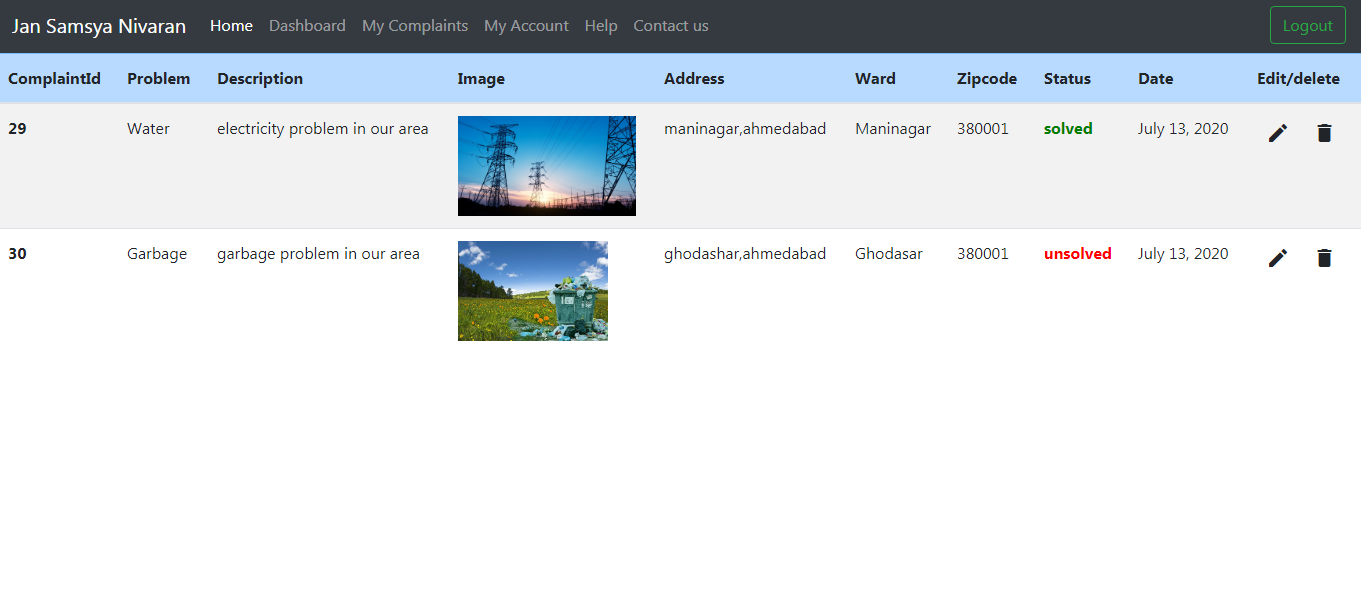
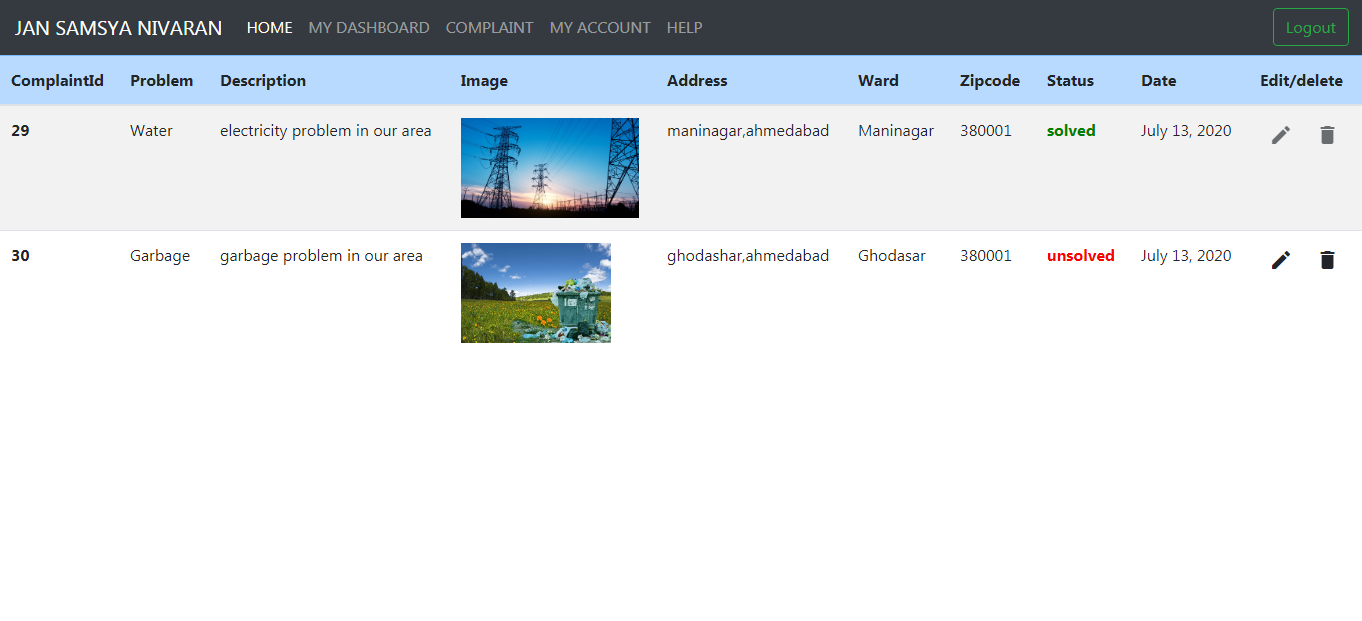
done

diff --git a/jsn/user/templates/complaint.html b/jsn/user/templates/complaint.html
@@ -14,10 +14,61 @@
 
 
     <title>complaint</title>
+    <script> 
+    function upload_check()
+        {
+            var upl = document.getElementById("file_id");
+            var imgsize = document.getElementById("imagesize");
+            
+            
+            if(Math.round(upl.files[0].size)/1024 > 1000 )
+            {
+            imgsize.style.display=""; 
+            upl.value = "";
+            }
+            else
+            {
+
+                imgsize.style.display="none"; 
+            }
+        };
+     
+</script> 
 </head>
 
 <body>
+<nav class="navbar  navbar-expand-lg navbar-dark bg-dark" >
+  <a class="navbar-brand" href="/home">JAN SAMSYA NIVARAN</a>
+  <button class="navbar-toggler" type="button" data-toggle="collapse" data-target="#navbarSupportedContent" aria-controls="navbarSupportedContent" aria-expanded="false" aria-label="Toggle navigation">
+    <span class="navbar-toggler-icon"></span>
+  </button>
 
+  <div class="collapse navbar-collapse" id="navbarSupportedContent">
+    <ul class="navbar-nav mr-auto">
+      <li class="nav-item active">
+        <a class="nav-link" href="userhome">HOME</a>
+        
+      </li>
+      
+      <li class="nav-item active">
+        <a class="nav-link" href="mydashbord">MY DASHBORD</a>
+        
+      </li>
+      <li class="nav-item active">
+        <a class="nav-link" href="complaint">COMPLAINT</a>
+      </li>
+      <li class="nav-item dropdown">
+        <a class="nav-link" href="myaccount">MY ACCOUNT</a>
+      </li>
+      <li class="nav-item">
+        <a class="nav-link" href="help">HELP</a>
+      </li>
+          </ul>
+    <a href="/user/logout"><button class="btn btn-outline-success mr-2 my-2 my-sm-0" type="submit">Logout</button></a>
+   
+    
+  </div>
+</nav>
 
     <div class="container">
         <div class="row">
@@ -49,7 +100,9 @@
                             </div>
                             <div class="form-group">
                                 <label class="form`-control-label">Image</label>
-                                <input type="file" accept="image/*" name="image" class="form-control" required>
+                                <input type="file" accept="image/*" name="image" onchange="upload_check()" id="file_id"  id="image"class="form-control" required>
+                                <span style='display:none;color:red' id="imagesize"><small>Image size should be <2 MB
+                                        </small></span>
 
                             </div>
                             <div class="form-group">

diff --git a/jsn/user/templates/help.html b/jsn/user/templates/help.html
@@ -13,7 +13,7 @@
   </head>
   <body>
    <nav class="navbar  navbar-expand-lg navbar-dark bg-dark" >
-  <a class="navbar-brand" href="/home">Jan Samsya Nivaran</a>
+  <a class="navbar-brand" href="/home">JAN SAMSYA NIVARAN</a>
   <button class="navbar-toggler" type="button" data-toggle="collapse" data-target="#navbarSupportedContent" aria-controls="navbarSupportedContent" aria-expanded="false" aria-label="Toggle navigation">
     <span class="navbar-toggler-icon"></span>
   </button>
@@ -21,7 +21,7 @@
   <div class="collapse navbar-collapse" id="navbarSupportedContent">
     <ul class="navbar-nav mr-auto">
       <li class="nav-item active">
-        <a class="nav-link" href="/home">HOME</a>
+        <a class="nav-link" href="userhome">HOME</a>
         
       </li>
       
@@ -50,11 +50,11 @@
     <div>
         <center><h1>Welcome page</h1>
         <img src="{% static 'home.png' %}" class="img-thumbnail" height="5%" width="70%"></center><hr>
-       <center> <h1>To See Your Complaint Click on Dashboard </h1>
+       <center> <h1>To See Your Complaint Click on My Dashboard </h1>
         <img src="{% static 'Dashboard.png' %}"  class="img-thumbnail" height="5%" width="70%"></center><hr>
-       <center> <h1>For any Complaint Click on My Complaint</h1>
+       <center> <h1>For any Complaint Click on Complaint</h1>
         <img src="{% static 'complaint.png' %}" class="img-thumbnail" height="5%" width="70%"></center><hr>
-        <center><h1>To see Your Account </h1>
+        <center><h1>To see Your Account click on My account </h1>
         <img src="{% static 'myaccount.png' %}" class="img-thumbnail" height="5%" width="70%"></center>
     </div>
 

diff --git a/jsn/home/templates/home.html b/jsn/home/templates/home.html
@@ -17,7 +17,7 @@
 	
 		
     <nav class="navbar fixed-top navbar-expand-lg navbar-dark bg-dark" >
-  <a class="navbar-brand" href="">Jan Samsya Nivaran</a>
+  <a class="navbar-brand" href="">JAN SAMASYA NIVARAN</a>
   <button class="navbar-toggler" type="button" data-toggle="collapse" data-target="#navbarSupportedContent" aria-controls="navbarSupportedContent" aria-expanded="false" aria-label="Toggle navigation">
     <span class="navbar-toggler-icon"></span>
   </button>
@@ -25,18 +25,18 @@
   <div class="collapse navbar-collapse" id="navbarSupportedContent">
     <ul class="navbar-nav mr-auto">
       <li class="nav-item active">
-        <a class="nav-link" href="">Home <span class="sr-only">(current)</span></a>
+        <a class="nav-link" href="">HOME <span class="sr-only">(current)</span></a>
       </li>
       <li class="nav-item active">
         <a class="nav-link" href="dashbord">DASHBORD</a>
       </li>
       <li class="nav-item active">
-        <a class="nav-link" href="#" tabindex="-1">Help</a>
+        <a class="nav-link" href="#" tabindex="-1">ABOUT US</a>
       </li>
     </ul>
     <a href="/registration/reg"><button class="btn btn-outline-success mr-2 my-2 my-sm-0" type="submit">Registration</button></a>
     <a href="/login/login"><button class="btn btn-outline-success mr-2 my-2 my-sm-0" type="submit">Login</button></a>
-    <a href="/admin"><button class="btn btn-primary mr-2 my-2 my-sm-0" type="submit">Admin</button></a>
+    <a href="/admin"><button class="btn btn-primary mr-2 my-2 my-sm-0" style="background-color: #0011ff; color:#fff;" type="submit">Admin</button></a>
     
   </div>
 </nav>

diff --git a/jsn/home/templates/dashbord.html b/jsn/home/templates/dashbord.html
@@ -12,8 +12,34 @@
     <title>My Dashbord</title>
   </head>
   <body>
+      <nav class="navbar fixed-top navbar-expand-lg navbar-dark bg-dark" >
+  <a class="navbar-brand" href="/">JAN SAMASYA NIVARAN</a>
+  <button class="navbar-toggler" type="button" data-toggle="collapse" data-target="#navbarSupportedContent" aria-controls="navbarSupportedContent" aria-expanded="false" aria-label="Toggle navigation">
+    <span class="navbar-toggler-icon"></span>
+  </button>
+
+  <div class="collapse navbar-collapse" id="navbarSupportedContent">
+    <ul class="navbar-nav mr-auto">
+      <li class="nav-item active">
+        <a class="nav-link" href="/">HOME <span class="sr-only">(current)</span></a>
+      </li>
+      <li class="nav-item active">
+        <a class="nav-link" href="dashbord">DASHBORD</a>
+      </li>
+      <li class="nav-item active">
+        <a class="nav-link" href="#" tabindex="-1">ABOUT US</a>
+      </li>
+    </ul>
+    <a href="/registration/reg"><button class="btn btn-outline-success mr-2 my-2 my-sm-0" type="submit">Registration</button></a>
+    <a href="/login/login"><button class="btn btn-outline-success mr-2 my-2 my-sm-0" type="submit">Login</button></a>
+    
+    
+  </div>
+</nav>
+<br>
+<br>
     <table class="table table-striped table-responsive-md">
-        <thead class="thead-dark">
+        <thead class="table-primary">
           <tr>
             <th scope="col">ComplaintId</th>
             <th scope="col">Problem</th>

diff --git a/jsn/user/templates/userhome.html b/jsn/user/templates/userhome.html
@@ -15,7 +15,7 @@
 	{%load static%}
 		
     <nav class="navbar  navbar-expand-lg navbar-dark bg-dark" >
-  <a class="navbar-brand" href="/home">Jan Samsya Nivaran</a>
+  <a class="navbar-brand" href="/home">JAN SAMSYA NIVARAN</a>
   <button class="navbar-toggler" type="button" data-toggle="collapse" data-target="#navbarSupportedContent" aria-controls="navbarSupportedContent" aria-expanded="false" aria-label="Toggle navigation">
     <span class="navbar-toggler-icon"></span>
   </button>
@@ -23,7 +23,7 @@
   <div class="collapse navbar-collapse" id="navbarSupportedContent">
     <ul class="navbar-nav mr-auto">
       <li class="nav-item active">
-        <a class="nav-link" href="/home">HOME</a>
+        <a class="nav-link" href="userhome">HOME</a>
         
       </li>
       

diff --git a/jsn/user/templates/mydashbord.html b/jsn/user/templates/mydashbord.html
@@ -13,7 +13,7 @@
   </head>
   <body>
   <nav class="navbar  navbar-expand-lg navbar-dark bg-dark" >
-  <a class="navbar-brand" href="/home">Jan Samsya Nivaran</a>
+  <a class="navbar-brand" href="/home">JAN SAMSYA NIVARAN</a>
   <button class="navbar-toggler" type="button" data-toggle="collapse" data-target="#navbarSupportedContent" aria-controls="navbarSupportedContent" aria-expanded="false" aria-label="Toggle navigation">
     <span class="navbar-toggler-icon"></span>
   </button>
@@ -21,7 +21,7 @@
   <div class="collapse navbar-collapse" id="navbarSupportedContent">
     <ul class="navbar-nav mr-auto">
       <li class="nav-item active">
-        <a class="nav-link" href="/home">HOME</a>
+        <a class="nav-link" href="userhome">HOME</a>
         
       </li>
       

diff --git a/jsn/user/templates/myaccount.html b/jsn/user/templates/myaccount.html
@@ -16,7 +16,7 @@
 
 <body>
 <nav class="navbar  navbar-expand-lg navbar-dark bg-dark" >
-  <a class="navbar-brand" href="/home">Jan Samsya Nivaran</a>
+  <a class="navbar-brand" href="/home">JAN SAMSYA NIVARAN</a>
   <button class="navbar-toggler" type="button" data-toggle="collapse" data-target="#navbarSupportedContent" aria-controls="navbarSupportedContent" aria-expanded="false" aria-label="Toggle navigation">
     <span class="navbar-toggler-icon"></span>
   </button>
@@ -24,7 +24,7 @@
   <div class="collapse navbar-collapse" id="navbarSupportedContent">
     <ul class="navbar-nav mr-auto">
       <li class="nav-item active">
-        <a class="nav-link" href="/home">HOME</a>
+        <a class="nav-link" href="userhome">HOME</a>
         
       </li>
       

diff --git a/jsn/jsn/settings.py b/jsn/jsn/settings.py
@@ -21,7 +21,7 @@ BASE_DIR = os.path.dirname(os.path.dirname(os.path.abspath(__file__)))
 # See https://docs.djangoproject.com/en/3.0/howto/deployment/checklist/
 
 # SECURITY WARNING: keep the secret key used in production secret!
-SECRET_KEY = ''
+SECRET_KEY = 
 # SECURITY WARNING: don't run with debug turned on in production!
 DEBUG = True
 
@@ -137,5 +137,5 @@ EMAIL_USE_TLS = True
 EMAIL_HOST = 'smtp.gmail.com'  
 EMAIL_PORT = 587  
 EMAIL_HOST_USER = 'jantasamsyanivaran@gmail.com'  
-EMAIL_HOST_PASSWORD = ''  
+EMAIL_HOST_PASSWORD = 
 
